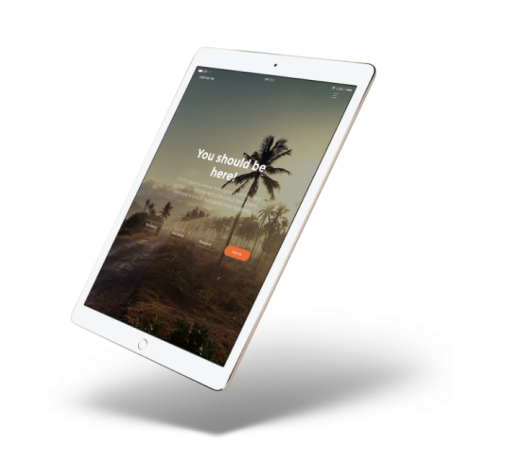
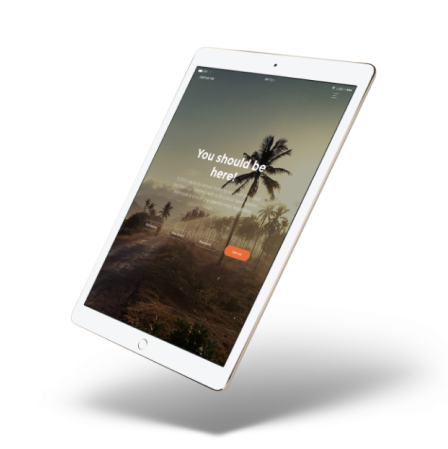
section three position

Changed region(s): [[0.1562, 0.0935, 0.8438, 0.8731], [0.2188, 0.7795, 0.9375, 0.9978]]

diff --git a/index.html b/index.html
@@ -160,22 +160,24 @@
           <li><img class="sec-three__icon-list" src="./assets/icons/tiktok-icon-d.svg" alt=""></li>
         </ul>
       </div>
-      <div>
-        <div class="section-image">
-          <img class="ocult-d" src="assets/img/screen-section3.png" alt="tablet screen" />
-          <img class="ocult-m" src="./assets/img/desktop-screen-sectionthree.png" alt="tablet screen">
-        </div>
-        <div class="gap-section center-margin">
-          <h5 class="section-title">CREDIET CARD</h5>
-          <h2 class="title-section">
-            <img class="section-subtract" src="assets/img/Subtract.svg" alt="" />
-            Payment <span class="color-purple">Get Easier</span>
-          </h2>
-          <p class="paragraph-section">
-            Hac sem ut eget tellus diam convallis lacus a, interdum nulla sem
-            adipiscing inw
-          </p>
-          <a class="section-link" href="#">Learn more</a>
+      <div class="flex-jcenter">
+        <div class="section-container">
+          <div class="section-image">
+            <img class="ocult-d" src="assets/img/screen-section3.png" alt="tablet screen" />
+            <img class="ocult-m" src="./assets/img/desktop-screen-sectionthree.png" alt="tablet screen">
+          </div>
+          <div class="gap-section center-margin section-three__text">
+            <h5 class="section-title">CREDIET CARD</h5>
+            <h2 class="title-section">
+              <img class="section-subtract" src="assets/img/Subtract.svg" alt="" />
+              Payment <span class="color-purple">Get Easier</span>
+            </h2>
+            <p class="paragraph-section">
+              Hac sem ut eget tellus diam convallis lacus a, interdum nulla sem
+              adipiscing inw
+            </p>
+            <a class="section-link" href="#">Learn more</a>
+          </div>
         </div>
       </div>
     </section>

diff --git a/css/desktop/section-three.css b/css/desktop/section-three.css
@@ -1,15 +1,28 @@
-.sec-three__icon-list {
-    height: 34px;
-    width: auto;
-}
+@media screen and (min-width: 415px){
+    .sec-three__icon-list {
+        height: 34px;
+        width: auto;
+    }
 
-.sec-three__icon-ul {
-    display: flex;
-    justify-content: space-between;
-    width: 834px;
-    margin: auto;
-}
+    .sec-three__icon-ul {
+        display: flex;
+        justify-content: space-between;
+        width: 60%;
+    }
 
-.sec-three__list-container {
-    margin: 70px 0 69.69px 0;
+    .sec-three__list-container {
+        margin: 70px 0 69.69px 0;
+    }
+
+    .section-container {
+        display: flex;
+        flex-direction: row-reverse;
+        width: 60%;
+    }
+
+    .section-three__text {
+        width: 30%;
+        margin: 14% auto auto 0;
+    }
+
 }

diff --git a/css/desktop/utils.css b/css/desktop/utils.css
@@ -26,4 +26,9 @@ a {
       display: none;
   }
 
+  .flex-jcenter {
+      display: flex;
+      justify-content: center;
+  }
+
 }
